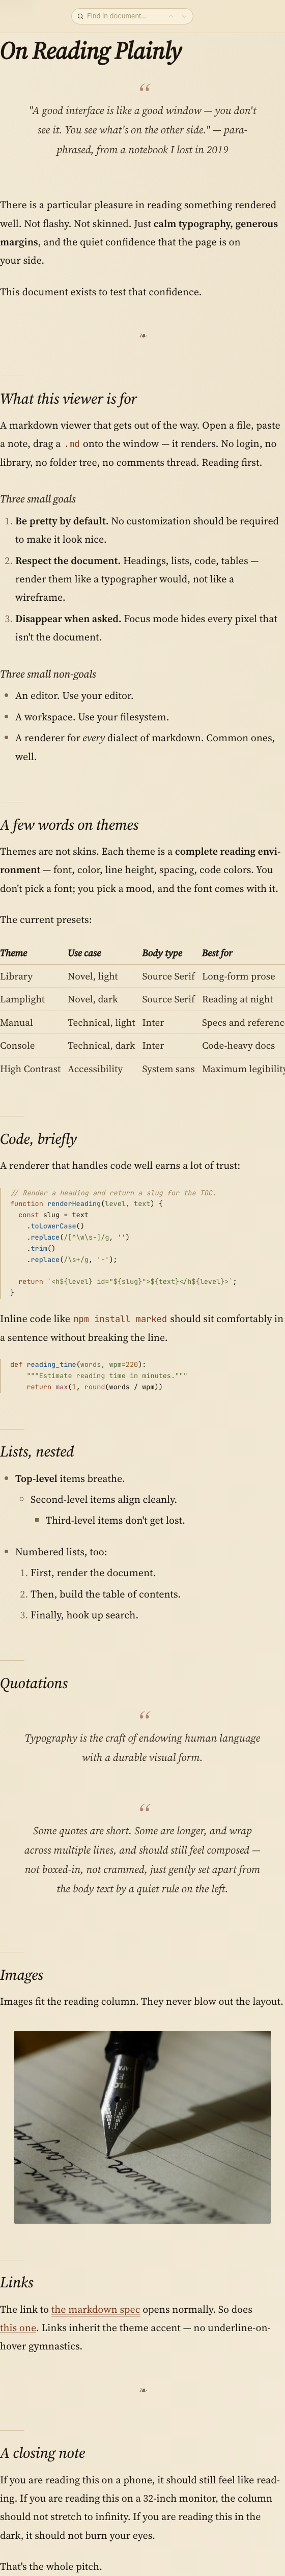
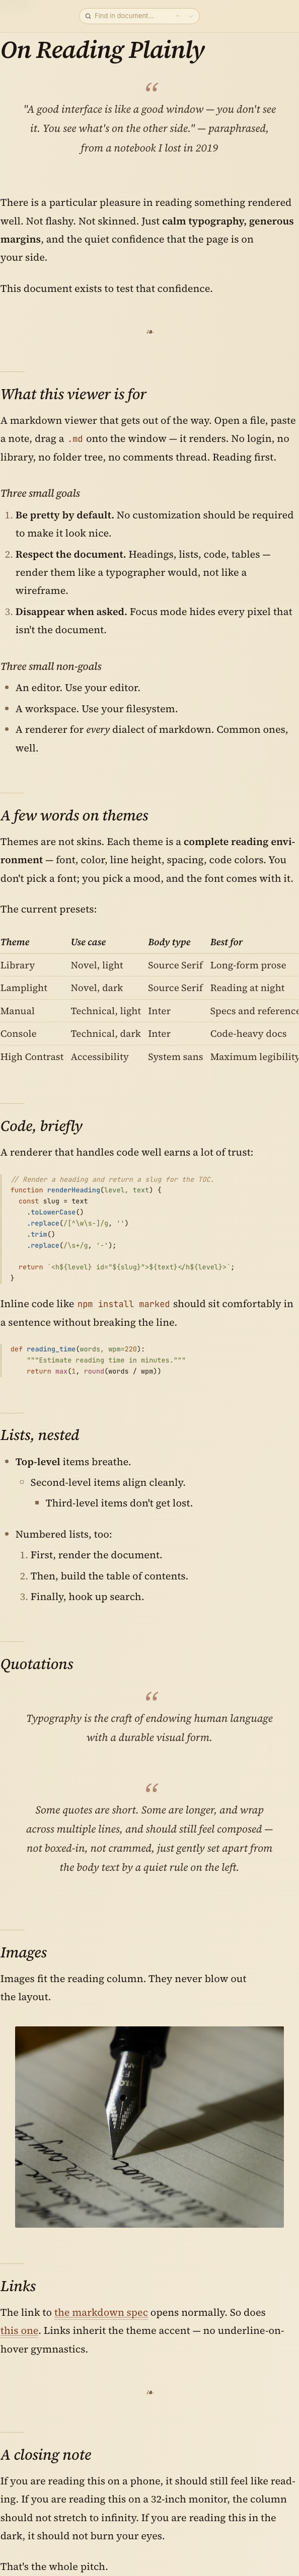
feat: add self-hosted variable fonts and update testing workflow

diff --git a/packages/web/index.html b/packages/web/index.html
@@ -5,16 +5,10 @@
     <meta name="viewport" content="width=device-width, initial-scale=1.0" />
     <meta
       http-equiv="Content-Security-Policy"
-      content="default-src 'self'; base-uri 'none'; object-src 'none'; frame-src 'none'; script-src 'self'; style-src 'self' 'unsafe-inline' https://fonts.googleapis.com; font-src 'self' https://fonts.gstatic.com; img-src 'self' data: https:; connect-src 'self';"
+      content="default-src 'self'; base-uri 'none'; object-src 'none'; frame-src 'none'; script-src 'self'; style-src 'self' 'unsafe-inline'; font-src 'self'; img-src 'self' data: https:; connect-src 'self';"
     />
     <link rel="icon" type="image/svg+xml" href="/favicon.svg"/>
     <title>Doclume</title>
-    <link rel="preconnect" href="https://fonts.googleapis.com" />
-    <link rel="preconnect" href="https://fonts.gstatic.com" crossorigin />
-    <link
-      href="https://fonts.googleapis.com/css2?family=Inter:wght@400;500;600;700&family=Source+Serif+4:ital,opsz,wght@0,8..60,400;0,8..60,500;0,8..60,600;0,8..60,700;1,8..60,400;1,8..60,500&family=JetBrains+Mono:wght@400;500;600&display=swap"
-      rel="stylesheet"
-    />
   </head>
   <body>
     <div id="root"></div>

diff --git a/packages/web/src/fonts.css b/packages/web/src/fonts.css
@@ -1,0 +1,5 @@
+/* Self-hosted variable fonts — avoid remote font drift in CI */
+@import '@fontsource-variable/inter';
+@import '@fontsource-variable/source-serif-4/wght.css';
+@import '@fontsource-variable/source-serif-4/wght-italic.css';
+@import '@fontsource-variable/jetbrains-mono/wght.css';

diff --git a/packages/web/src/main.tsx b/packages/web/src/main.tsx
@@ -2,6 +2,7 @@ import React, { StrictMode } from 'react';
 import { createRoot } from 'react-dom/client';
 import { bootstrapRoot } from '@doclume/core';
 import { App } from './App';
+import './fonts.css';
 import './app.css';
 
 bootstrapRoot((root) => {